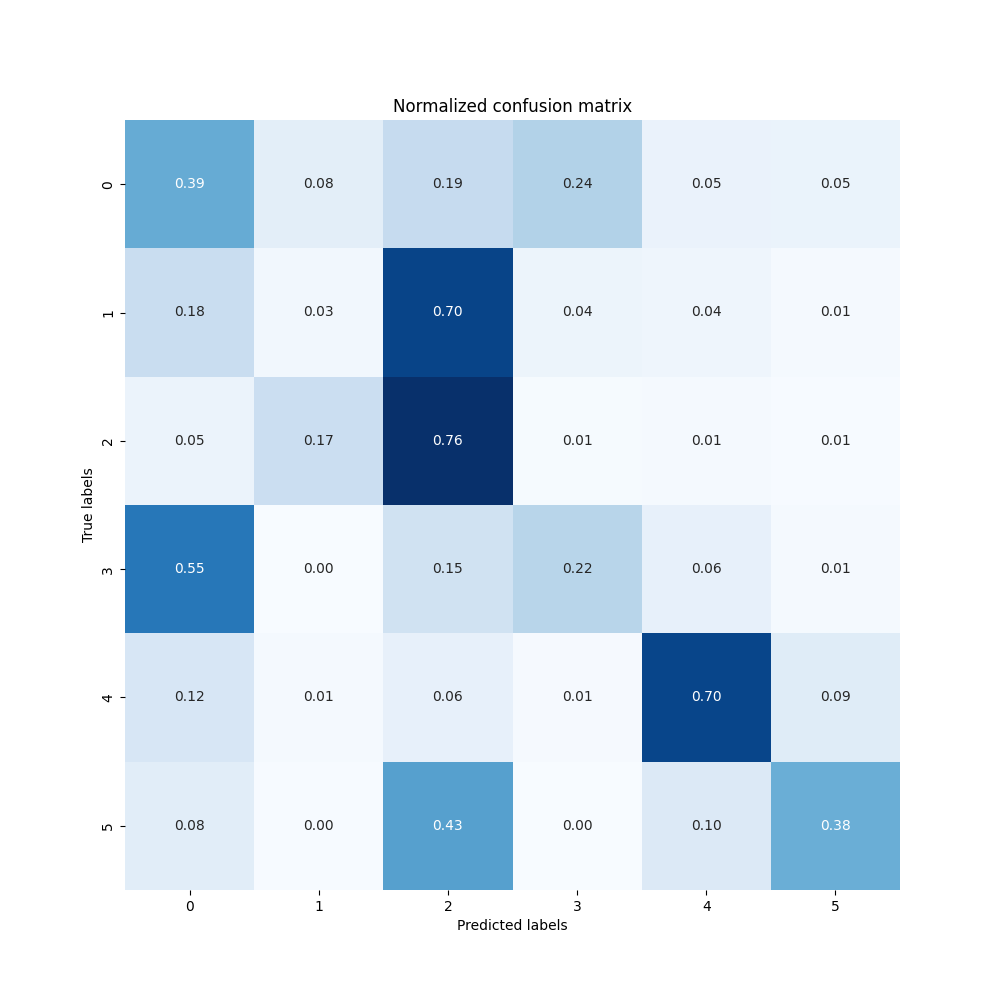
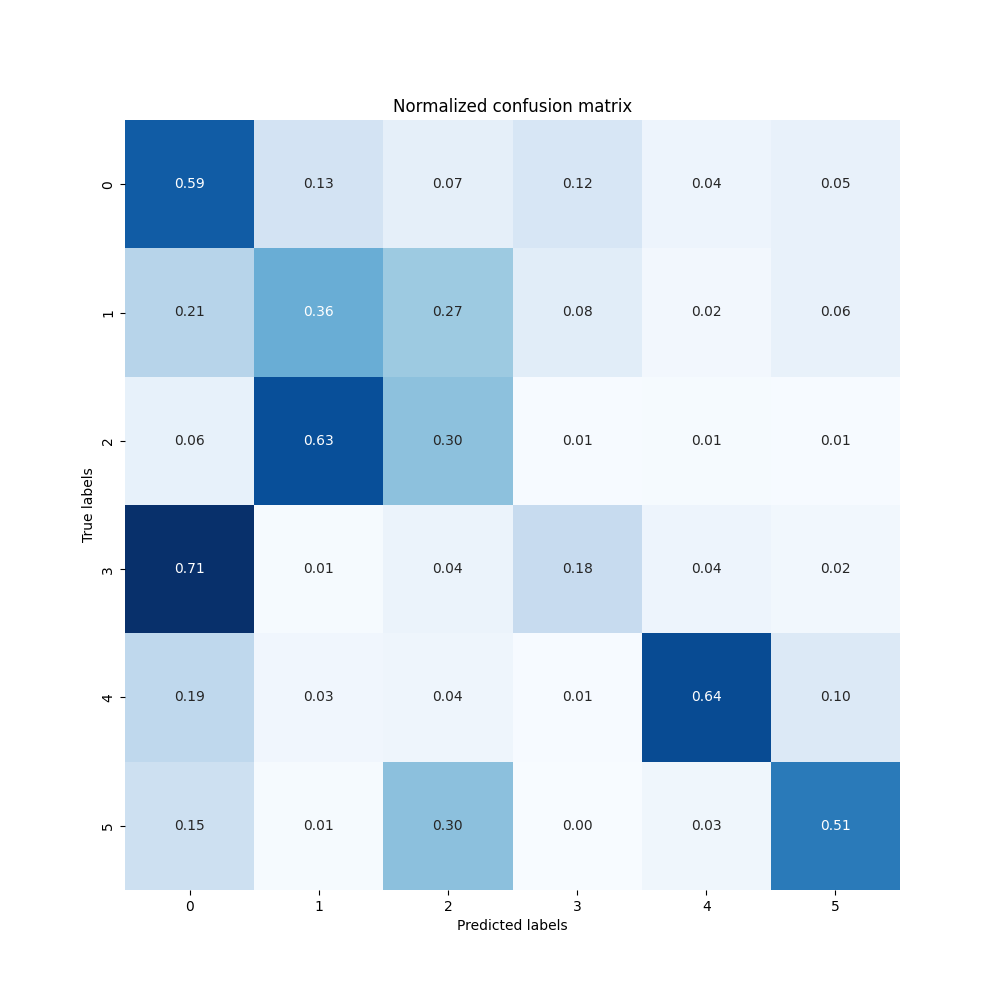
test scores and reorder

diff --git a/src/unet/unet_settings.py b/src/unet/unet_settings.py
@@ -4,7 +4,7 @@ from pathlib import Path
 import pandas as pd
 
 ## SETTINGS
-config_name = 'unet_256_l1/0_random_shuffling_seed1'
+config_name = 'unet_256_l1/2_stratified_shuffling_by_zone_seed1'
 
 Path(f'../../{config_name}/models').mkdir(parents=True, exist_ok=True)
 Path(f'../../{config_name}/metrics_test').mkdir(exist_ok=True)
@@ -20,7 +20,7 @@ data_loading_settings = {
     'msk_folder' : Path(f'../../data/patch{patch_level_param["patch_size"]}/msk/'),
     'msks_256_fully_labelled' : pd.read_csv('../../csv/coverage_patch/p256_100per_labelled.csv'), 
     'path_pixels_by_zone': Path(f'../../csv/l{patch_level_param["level"]}_nb_pixels_by_zone.csv'),
-    'stratified' : 'image', # 'random', 'zone', 'image'
+    'stratified' : 'zone', # 'random', 'zone', 'image'
     'random_seed' : 1,
     'splitting' : [0.6, 0.2, 0.2],
     'bs': 16,
@@ -38,7 +38,7 @@ model_settings = {
     'path_to_intermed_optim': f'../../{config_name}/models/optim_intermed',
     'path_to_last_model': f'../../{config_name}/models/unet_last.pt',
     'path_to_last_optim': f'../../{config_name}/models/optim_last.pt',
-    'path_to_best_model': f'../../{config_name}/models/unet_intermed_epoch54.pt'#f'../../{config_name}/models/unet_intermed_epoch34.pt',#f'../../{config_name}/models/unet_intermed_epoch10.pt',#f'../../{config_name}/models/unet_intermed_epoch3.pt',#f'../../{config_name}/models/unet_intermed_epoch63.pt',#f'../../{config_name}/models/unet_intermed_epoch35.pt',
+    'path_to_best_model': f'../../{config_name}/models/unet_intermed_epoch19.pt'#f'../../{config_name}/models/unet_intermed_epoch34.pt',#f'../../{config_name}/models/unet_intermed_epoch10.pt',#f'../../{config_name}/models/unet_intermed_epoch3.pt',#f'../../{config_name}/models/unet_intermed_epoch63.pt',#f'../../{config_name}/models/unet_intermed_epoch35.pt',
     }
 
 training_settings = {
